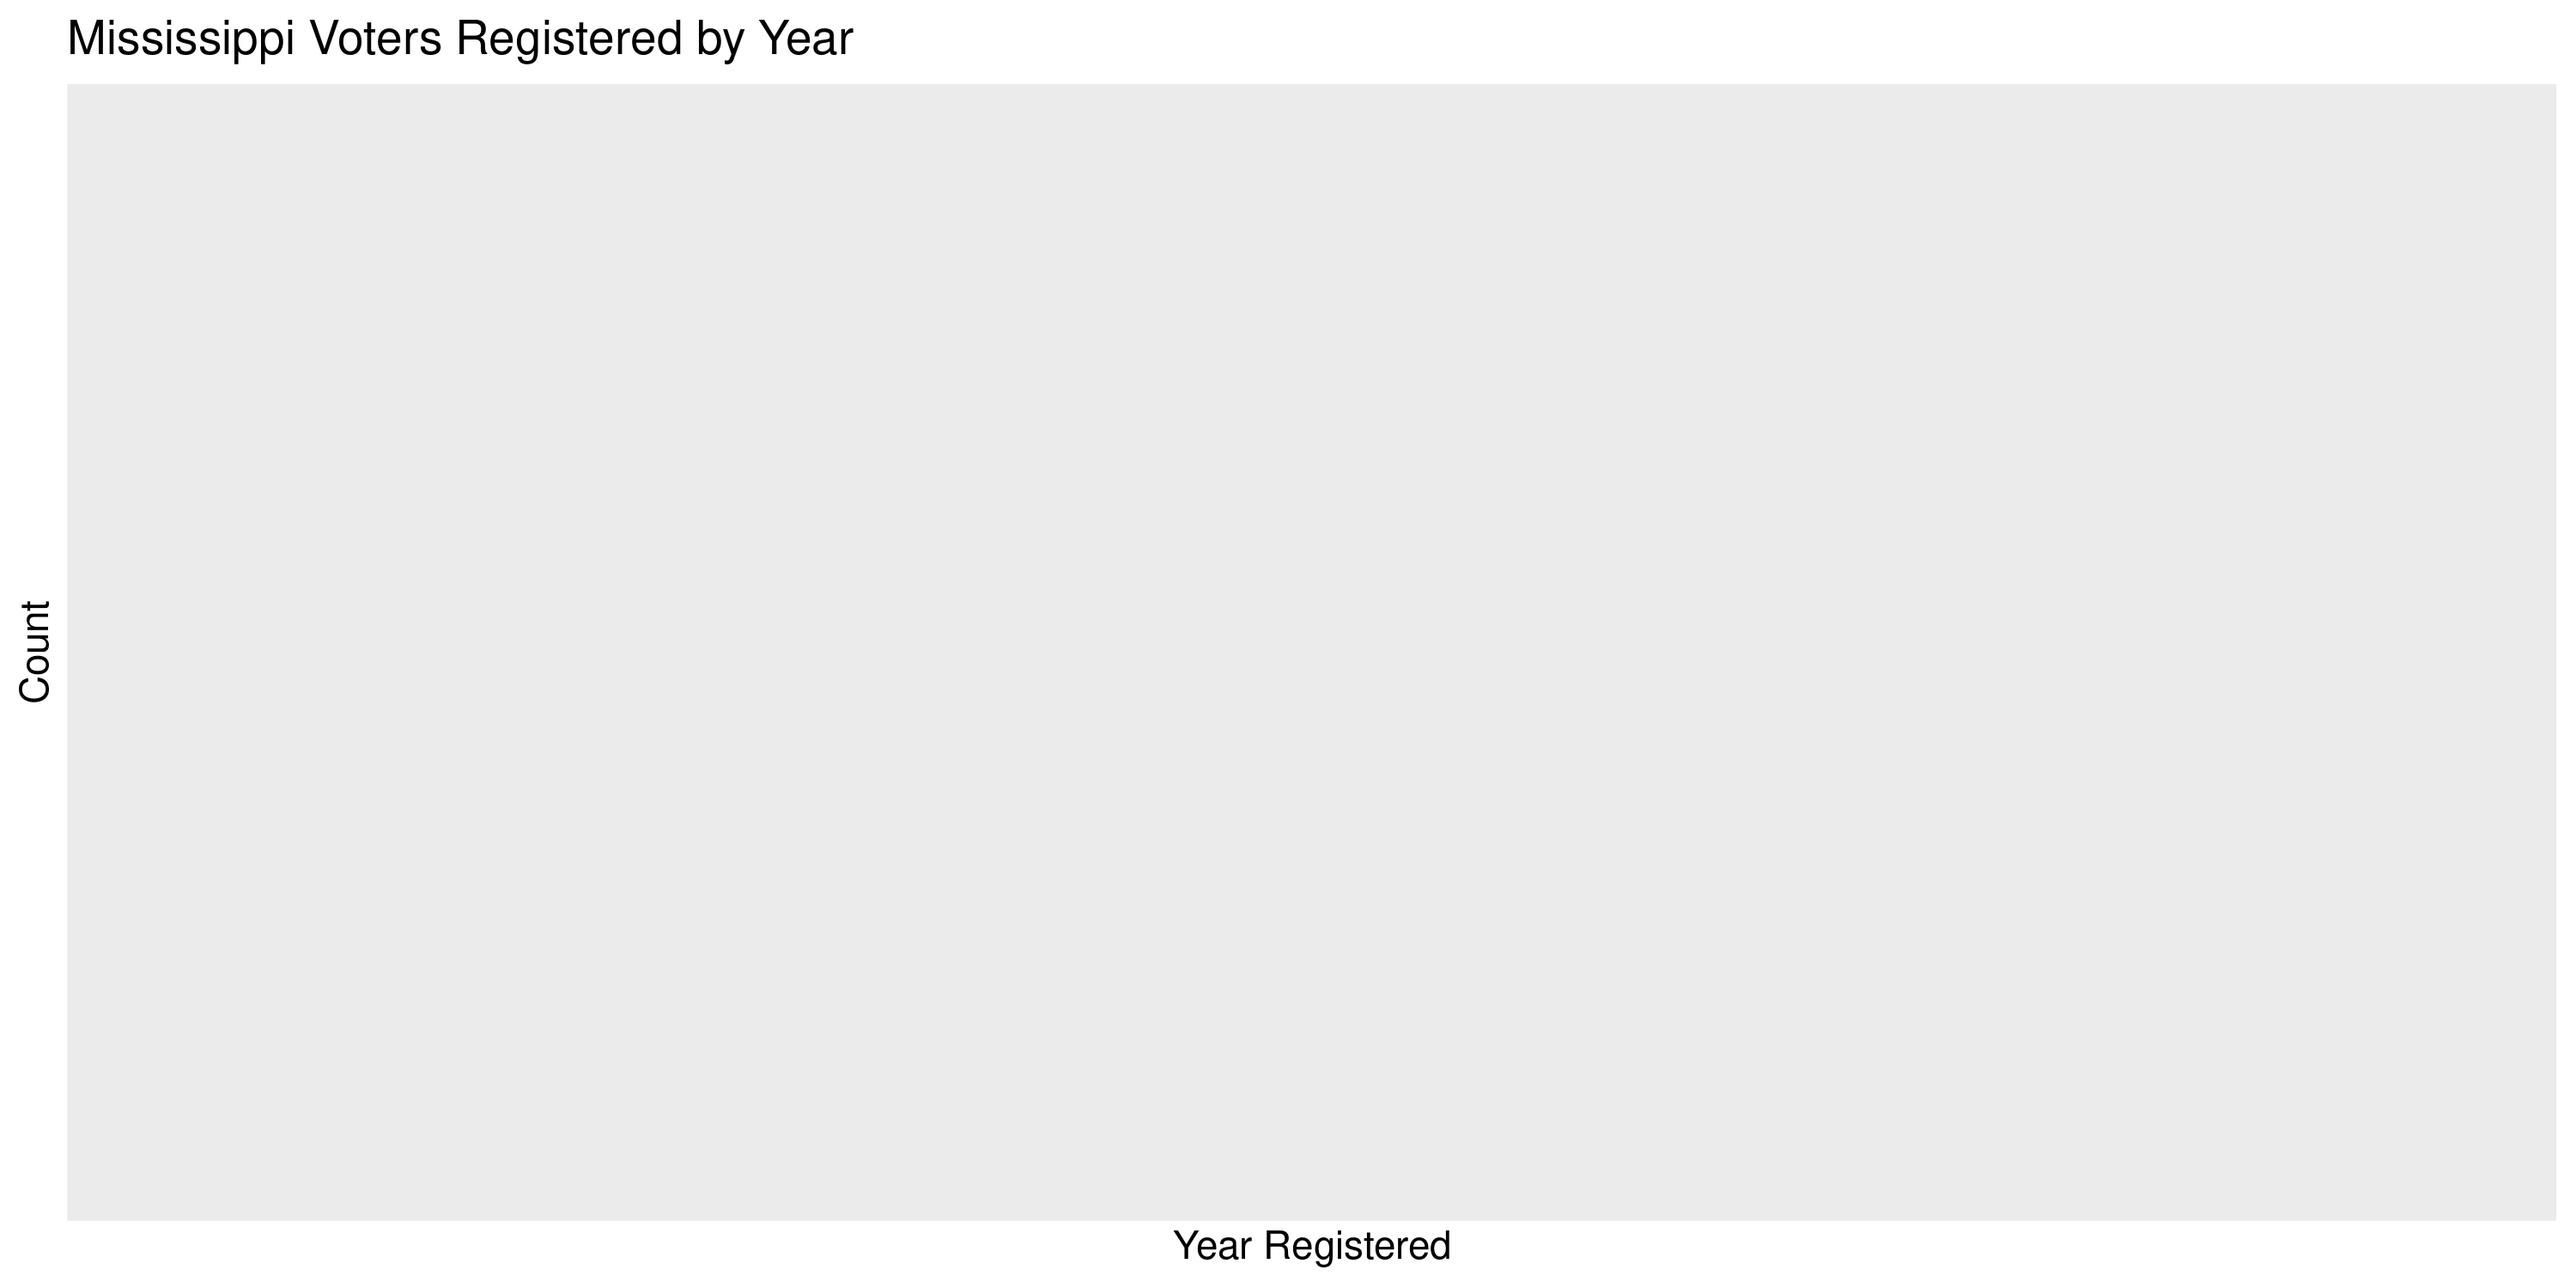
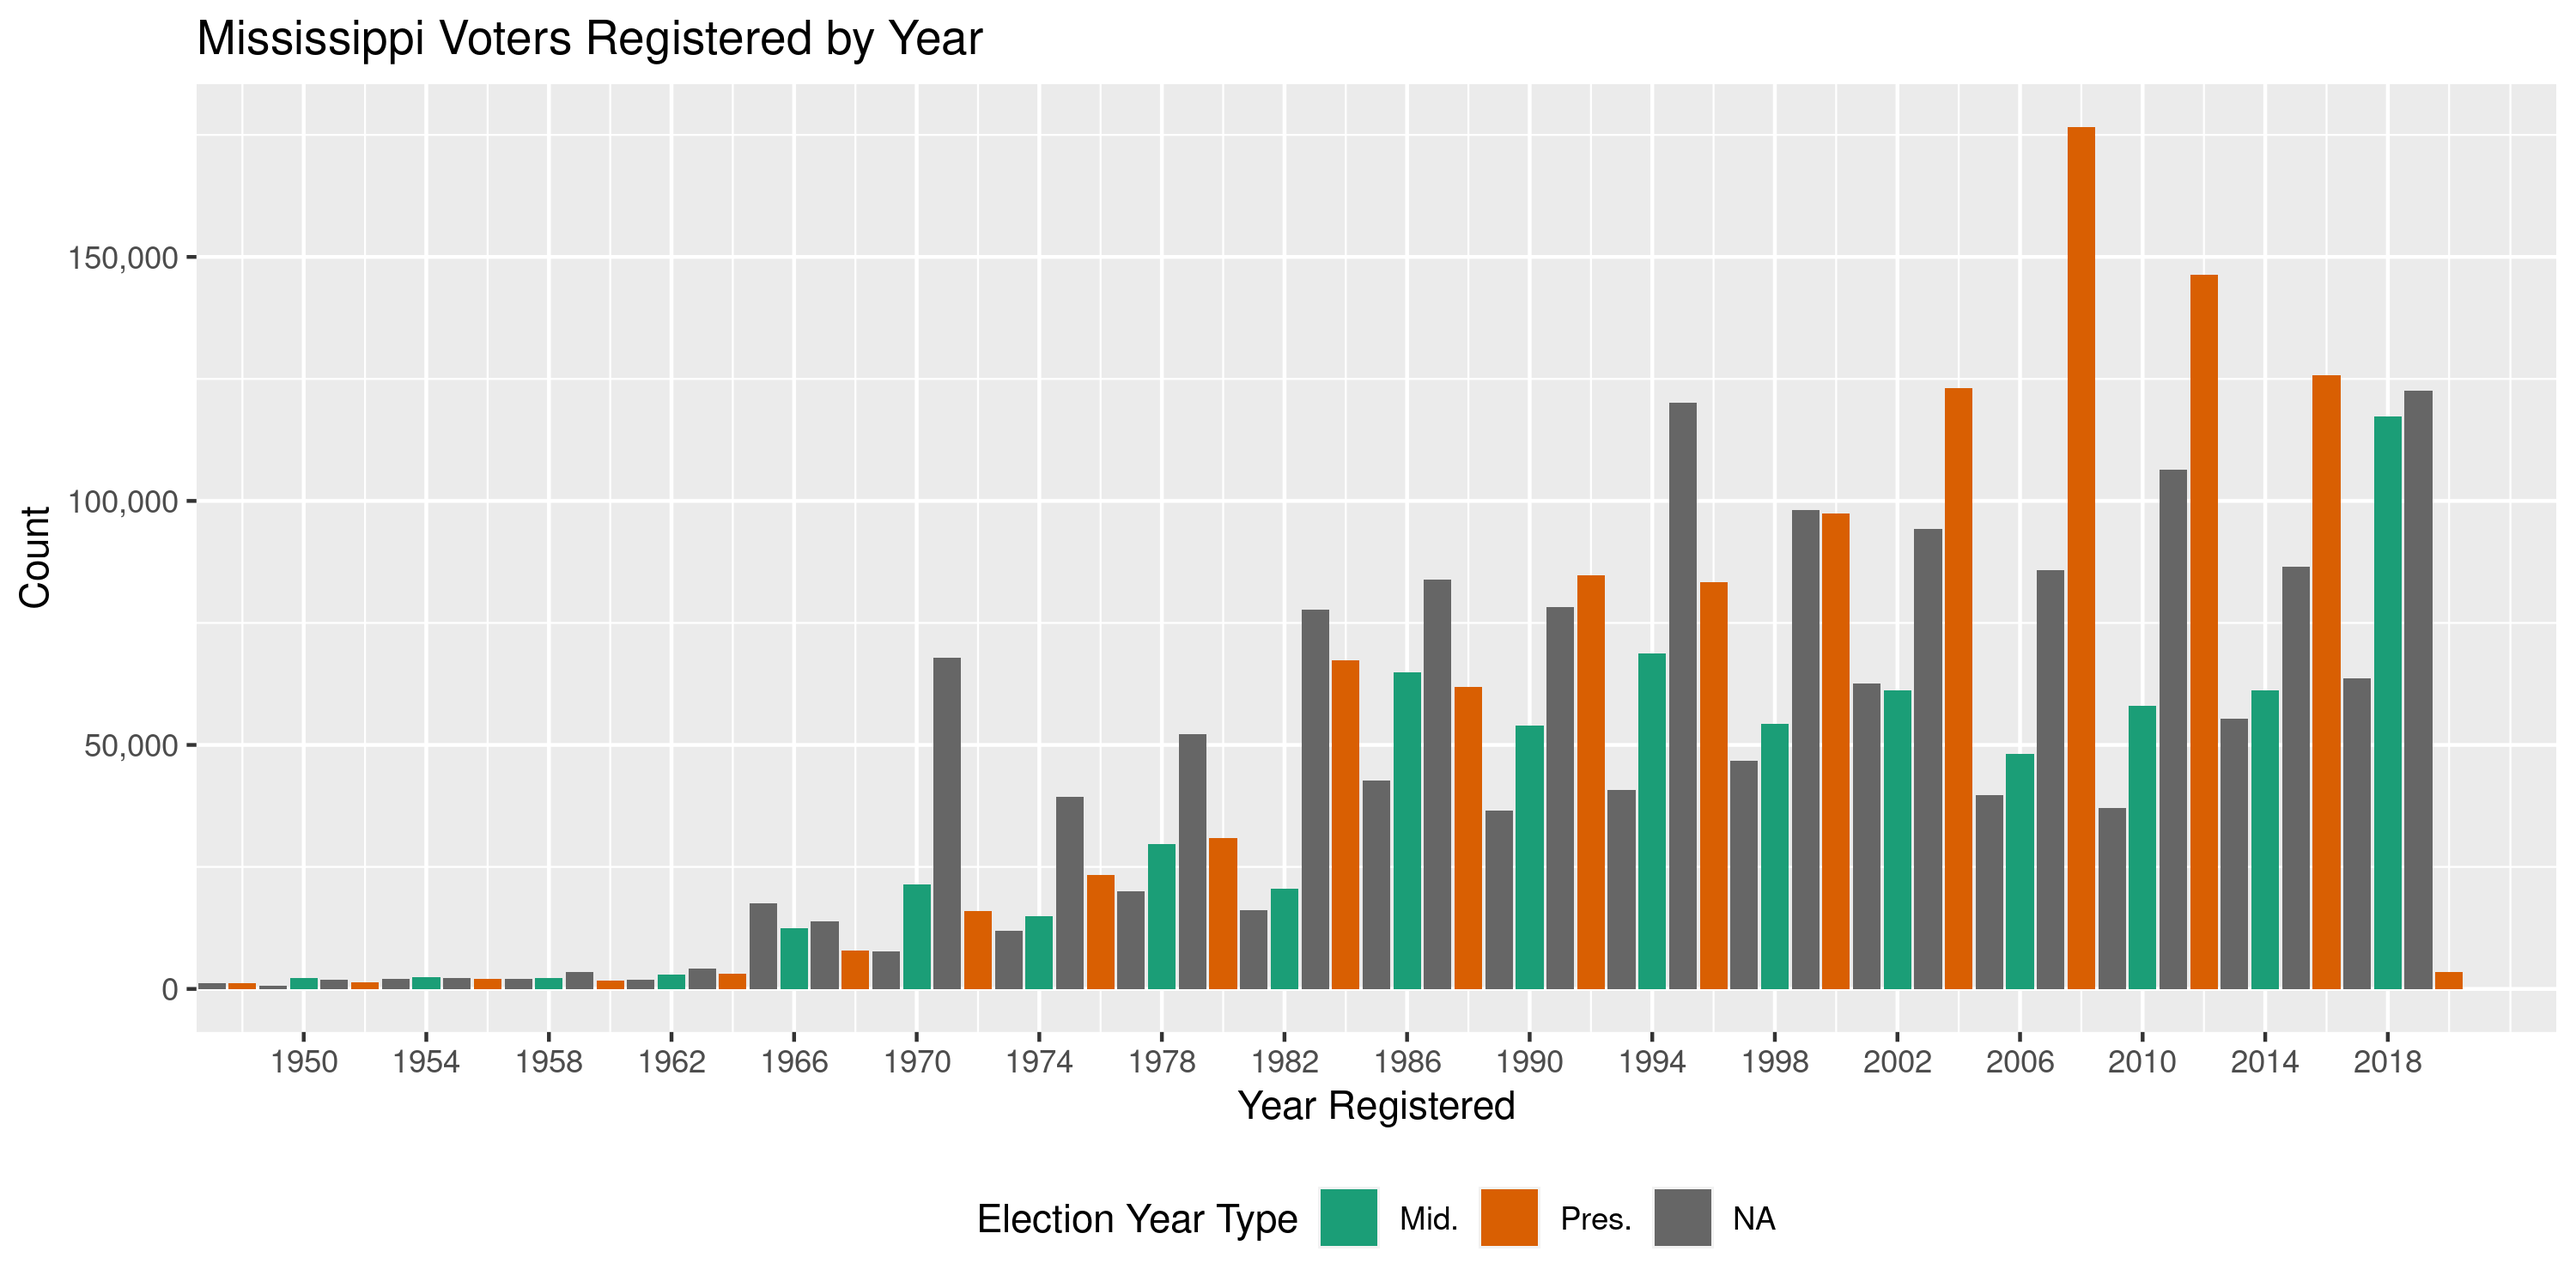
Fix dates in MS voters

diff --git a/R_tap/ms/voters/docs/ms_voters_diary.md b/R_tap/ms/voters/docs/ms_voters_diary.md
@@ -1,7 +1,7 @@
 Mississippi Voters
 ================
 Kiernan Nicholls
-Wed Jun 2 10:34:47 2021
+Wed Jun 2 11:44:37 2021
 
 -   [Project](#project)
 -   [Objectives](#objectives)
@@ -134,7 +134,7 @@ msv <- read_delim(
   escape_double = FALSE,
   col_types = cols(
     .default = col_character(),
-    regn_date = col_date_mdy(),
+    EFFECTIVE_REGN_DATE = col_date_mdy(),
     DATE_VOTED = col_date_mdy()
   )
 )
@@ -198,7 +198,7 @@ glimpse(msv)
 #> $ mail_city       <chr> "COLDWATER", "COLUMBUS", "CLEVELAND", NA, "COLUMBIA", "WATER VALLEY", "RIDGELAND", "JACKSON", …
 #> $ mail_state      <chr> "MS", "MS", "MS", NA, "MS", "MS", "MS", "MS", "MS", NA, "MS", "MS", NA, NA, "MS", NA, NA, NA, …
 #> $ mail_zip_code   <chr> "38618", "39701", "38732", NA, "39429", "38965", "39157", "39213", "39056-3949", NA, "39648-55…
-#> $ regn_date       <chr> "09/16/2013", "03/07/2007", "11/03/1999", "08/20/2002", "08/28/2002", "08/17/1991", "09/24/201…
+#> $ regn_date       <date> 2013-09-16, 2007-03-07, 1999-11-03, 2002-08-20, 2002-08-28, 1991-08-17, 2013-09-24, 2008-08-0…
 #> $ status          <chr> "Purged", "Purged", "Purged", "Purged", "Purged", "Purged", "Active", "Active", "Purged", "Act…
 #> $ date_voted      <date> NA, 2016-03-01, NA, NA, NA, NA, NA, 2016-11-08, 1801-01-01, NA, 2018-11-06, 2016-11-08, 2019-…
 #> $ us              <chr> "US", "US", "US", "US", "US", "US", "US", "US", "US", "US", "US", "US", "US", "US", "US", "US"…
@@ -247,7 +247,7 @@ tail(msv)
 #> 6 1349772       MARGARET   A           "`"       <NA>   196              <NA>      <NA>        <NA>        <NA>         
 #> # … with 48 more variables: post_direction <chr>, res_city <chr>, res_state <chr>, res_zip_code <chr>,
 #> #   res_county <chr>, precinct_code <chr>, precinct_name <chr>, mailing_address <chr>, mail_city <chr>,
-#> #   mail_state <chr>, mail_zip_code <chr>, regn_date <chr>, status <chr>, date_voted <date>, us <chr>, ms <chr>,
+#> #   mail_state <chr>, mail_zip_code <chr>, regn_date <date>, status <chr>, date_voted <date>, us <chr>, ms <chr>,
 #> #   cong <chr>, sc <chr>, psc <chr>, tc <chr>, da <chr>, sen <chr>, rep <chr>, ca <chr>, chc <chr>, cir <chr>,
 #> #   cnt <chr>, lev <chr>, coct <chr>, jud <chr>, schc <chr>, scir <chr>, sup <chr>, supr <chr>, ec <chr>, jc <chr>,
 #> #   jcj <chr>, con <chr>, mun <chr>, ward <chr>, wardp <chr>, mp <chr>, schd <chr>, schb <chr>, sbal <chr>, fire <chr>,
@@ -284,7 +284,7 @@ col_stats(msv, count_na)
 #> 19 mail_city       <chr>  1264980 0.369      
 #> 20 mail_state      <chr>  1264997 0.369      
 #> 21 mail_zip_code   <chr>  1268558 0.371      
-#> 22 regn_date       <chr>        0 0          
+#> 22 regn_date       <date>       0 0          
 #> 23 status          <chr>        0 0          
 #> 24 date_voted      <date>  850997 0.249      
 #> 25 us              <chr>        0 0          
@@ -341,17 +341,17 @@ msv %>%
   select(all_of(key_vars))
 #> # A tibble: 386 x 4
 #>    first_name last_name regn_date  status
-#>    <chr>      <chr>     <chr>      <chr> 
-#>  1 <NA>       ADAMS     08/18/1972 Purged
-#>  2 <NA>       AIKEN     05/31/1993 Purged
-#>  3 <NA>       ALEXANDER 06/10/1983 Purged
-#>  4 <NA>       ALGEE     06/28/1988 Purged
-#>  5 <NA>       AMBROSE   10/23/1908 Purged
-#>  6 <NA>       ANDERSON  10/02/1985 Purged
-#>  7 <NA>       ANDERTON  06/23/1975 Purged
-#>  8 <NA>       ANGLIN    06/09/1975 Purged
-#>  9 <NA>       ASHFORD   10/06/1993 Purged
-#> 10 <NA>       AVANT     06/04/1970 Purged
+#>    <chr>      <chr>     <date>     <chr> 
+#>  1 <NA>       ADAMS     1972-08-18 Purged
+#>  2 <NA>       AIKEN     1993-05-31 Purged
+#>  3 <NA>       ALEXANDER 1983-06-10 Purged
+#>  4 <NA>       ALGEE     1988-06-28 Purged
+#>  5 <NA>       AMBROSE   1908-10-23 Purged
+#>  6 <NA>       ANDERSON  1985-10-02 Purged
+#>  7 <NA>       ANDERTON  1975-06-23 Purged
+#>  8 <NA>       ANGLIN    1975-06-09 Purged
+#>  9 <NA>       ASHFORD   1993-10-06 Purged
+#> 10 <NA>       AVANT     1970-06-04 Purged
 #> # … with 376 more rows
 ```
 
@@ -375,11 +375,11 @@ msv %>%
   select(all_of(key_vars))
 #> # A tibble: 4 x 4
 #>   first_name last_name regn_date  status
-#>   <chr>      <chr>     <chr>      <chr> 
-#> 1 <NA>       BECK      09/16/2003 Active
-#> 2 <NA>       KENNEDY   08/30/2004 Active
-#> 3 <NA>       TRUONG    09/11/2019 Active
-#> 4 <NA>       WESLEY    02/04/2013 Active
+#>   <chr>      <chr>     <date>     <chr> 
+#> 1 <NA>       BECK      2003-09-16 Active
+#> 2 <NA>       KENNEDY   2004-08-30 Active
+#> 3 <NA>       TRUONG    2019-09-11 Active
+#> 4 <NA>       WESLEY    2013-02-04 Active
 ```
 
 ### Duplicates
@@ -447,17 +447,17 @@ msv %>%
   arrange(last_name)
 #> # A tibble: 424 x 6
 #>    mapping_value first_name last_name regn_date  status res_zip_code
-#>    <chr>         <chr>      <chr>     <chr>      <chr>  <chr>       
-#>  1 1567431       EDDIE      ALEXANDER 06/30/1998 Purged 39301-2203  
-#>  2 1567488       EDDIE      ALEXANDER 06/30/1998 Purged 39301-2203  
-#>  3 1726670553    MICHELLE   ANDERSON  08/23/2019 Active 39204       
-#>  4 1726670547    MICHELLE   ANDERSON  08/23/2019 Active 39204       
-#>  5 16380687      NANCY      ASHMORE   09/29/1995 Purged 39740       
-#>  6 16380684      NANCY      ASHMORE   09/29/1995 Purged 39740       
-#>  7 1725536946    LINDA      BARNES    08/09/2010 Active 39530       
-#>  8 1725536952    LINDA      BARNES    08/09/2010 Active 39530       
-#>  9 1042968       CARYL      BEATY     02/14/2000 Active 38661-9558  
-#> 10 1042971       CARYL      BEATY     02/14/2000 Active 38661-9558  
+#>    <chr>         <chr>      <chr>     <date>     <chr>  <chr>       
+#>  1 1567431       EDDIE      ALEXANDER 1998-06-30 Purged 39301-2203  
+#>  2 1567488       EDDIE      ALEXANDER 1998-06-30 Purged 39301-2203  
+#>  3 1726670553    MICHELLE   ANDERSON  2019-08-23 Active 39204       
+#>  4 1726670547    MICHELLE   ANDERSON  2019-08-23 Active 39204       
+#>  5 16380687      NANCY      ASHMORE   1995-09-29 Purged 39740       
+#>  6 16380684      NANCY      ASHMORE   1995-09-29 Purged 39740       
+#>  7 1725536946    LINDA      BARNES    2010-08-09 Active 39530       
+#>  8 1725536952    LINDA      BARNES    2010-08-09 Active 39530       
+#>  9 1042968       CARYL      BEATY     2000-02-14 Active 38661-9558  
+#> 10 1042971       CARYL      BEATY     2000-02-14 Active 38661-9558  
 #> # … with 414 more rows
 ```
 
@@ -489,7 +489,7 @@ col_stats(msv, n_distinct)
 #> 19 mail_city       <chr>     6421 0.00188    
 #> 20 mail_state      <chr>      109 0.0000318  
 #> 21 mail_zip_code   <chr>   101747 0.0297     
-#> 22 regn_date       <chr>    27692 0.00809    
+#> 22 regn_date       <date>   27692 0.00809    
 #> 23 status          <chr>        5 0.00000146 
 #> 24 date_voted      <date>    1348 0.000394   
 #> 25 us              <chr>        1 0.000000292
@@ -541,19 +541,19 @@ There are thousands of voters with a registration date before January 1,
 count_na(msv$regn_date)
 #> [1] 0
 min(msv$regn_date, na.rm = TRUE)
-#> [1] "01/01/0001"
+#> [1] "1-01-01"
 sum(msv$regn_date == "1801-01-01", na.rm = TRUE)
-#> [1] 0
+#> [1] 16510
 sum(msv$regn_date < "1801-01-01", na.rm = TRUE)
-#> [1] 3423601
+#> [1] 890
 msv$regn_date[which(msv$regn_date <= "1801-01-01")] <- NA
 ```
 
 ``` r
 max(msv$regn_date, na.rm = TRUE)
-#> [1] NA
+#> [1] "2200-12-13"
 sum(msv$regn_date > today(), na.rm = TRUE)
-#> [1] 0
+#> [1] 2
 ```
 
 We can add the calendar year from `date` with `lubridate::year()`
@@ -615,7 +615,7 @@ glimpse(sample_n(msv, 50))
 #> $ mail_city       <chr> "LONG BEACH", "LEXINGTON", "LONG BEACH", "STARKVILLE", NA, "MAGEE", "TUPELO", "SALTILLO", "GUL…
 #> $ mail_state      <chr> "MS", "MS", "MS", "MS", NA, "MS", "MS", "MS", "MS", NA, NA, "MS", "MS", NA, "MS", NA, "MS", NA…
 #> $ mail_zip_code   <chr> "39560", "39095", "39560-6330", "39759", NA, "39111", "38803", "38866", "39501", NA, NA, "3930…
-#> $ regn_date       <chr> NA, NA, NA, NA, NA, NA, NA, NA, NA, NA, NA, NA, NA, NA, NA, NA, NA, NA, NA, NA, NA, NA, NA, NA…
+#> $ regn_date       <date> 1987-07-03, 1990-07-16, 1971-06-30, 1985-09-10, 2001-02-26, 1995-09-20, 1992-03-19, 1998-05-2…
 #> $ status          <chr> "Purged", "Active", "Active", "Active", "Active", "Active", "Purged", "Active", "Purged", "Act…
 #> $ date_voted      <date> 1999-11-02, 2019-11-05, 2002-11-19, 2017-11-07, 2019-08-27, 2019-11-05, 2014-11-04, 2019-11-0…
 #> $ us              <chr> "US", "US", "US", "US", "US", "US", "US", "US", "US", "US", "US", "US", "US", "US", "US", "US"…
@@ -654,7 +654,7 @@ glimpse(sample_n(msv, 50))
 #> $ wsd             <chr> NA, NA, NA, NA, NA, NA, NA, NA, NA, NA, NA, NA, NA, NA, NA, NA, NA, NA, NA, NA, NA, NA, NA, NA…
 #> $ na_flag         <lgl> FALSE, FALSE, FALSE, FALSE, FALSE, FALSE, FALSE, FALSE, FALSE, FALSE, FALSE, FALSE, FALSE, FAL…
 #> $ dupe_flag       <lgl> FALSE, FALSE, FALSE, FALSE, FALSE, FALSE, FALSE, FALSE, FALSE, FALSE, FALSE, FALSE, FALSE, FAL…
-#> $ regn_year       <dbl> NA, NA, NA, NA, NA, NA, NA, NA, NA, NA, NA, NA, NA, NA, NA, NA, NA, NA, NA, NA, NA, NA, NA, NA…
+#> $ regn_year       <dbl> 1987, 1990, 1971, 1985, 2001, 1995, 1992, 1998, 1975, 2013, 1991, 1994, 1978, 2018, 1971, 1999…
 #> $ zip_clean       <chr> "39560", "39095", "39560", "39759", "39213", "39111", "38801", "38866", "39507", "39211", "390…
 ```
 
@@ -677,7 +677,7 @@ clean_dir <- dir_create(here("ms", "voters", "data", "clean"))
 clean_path <- path(clean_dir, "ms_voters_2020.csv")
 write_csv(msv, clean_path, na = "")
 (clean_size <- file_size(clean_path))
-#> 875M
+#> 921M
 ```
 
 ``` r
